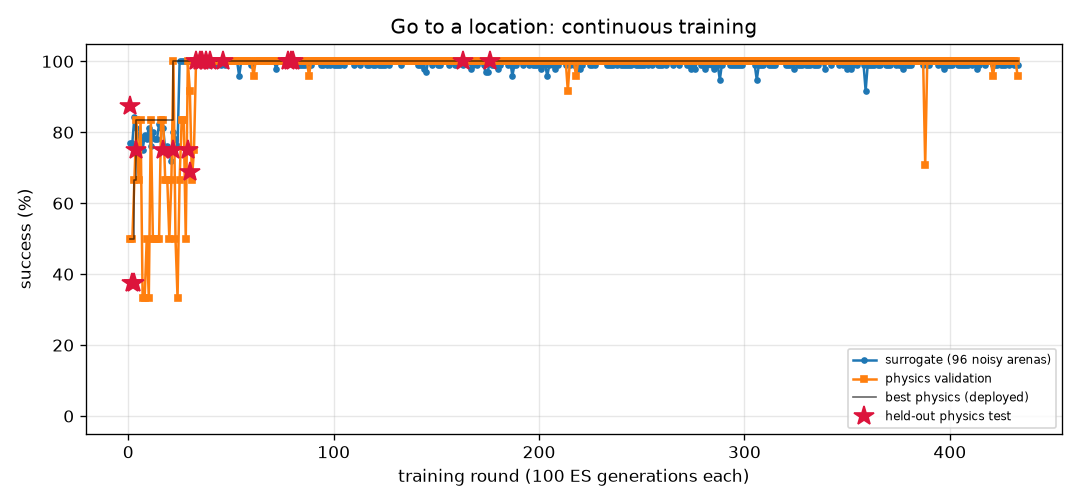
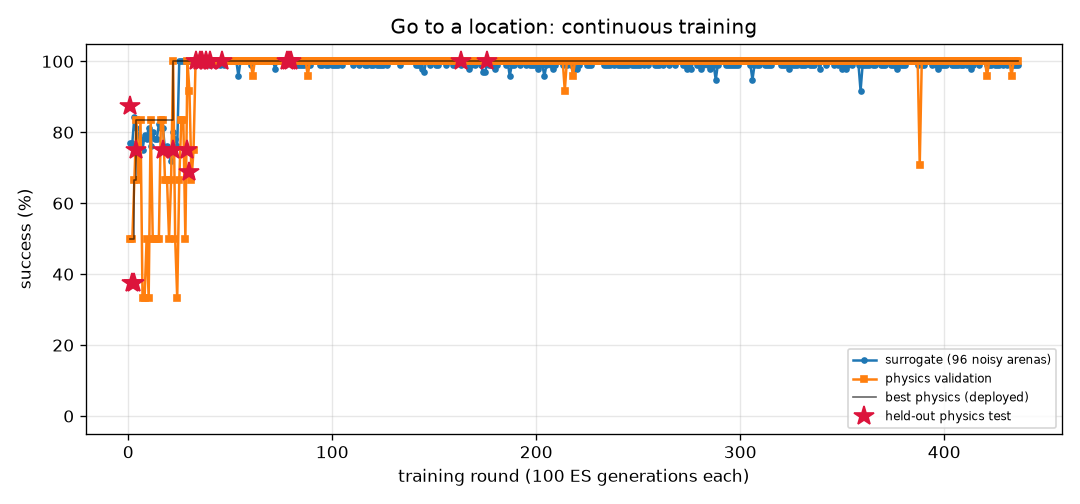
FlyLab: continuous training progress
- walk_forward: optimal, physics val 100% of 24, round 566
- turn: optimal, physics val 100% of 24, round 1405
- goto: optimal, physics val 100% of 24, round 436
- odor_seek: optimal, physics val 100% of 24, round 349
- odor_avoid: optimal, physics val 100% of 24, round 1176
- light_seek: optimal, physics val 100% of 24, round 640
- light_avoid: optimal, physics val 100% of 24, round 890

diff --git a/projects/09_flylab/training/goto/REPORT.md b/projects/09_flylab/training/goto/REPORT.md
@@ -1,14 +1,14 @@
 # Go to a location (`goto`) — training report
 
-*Auto-generated by `train_brains.py`, last updated 2026-11-27T12:01:27.*
+*Auto-generated by `train_brains.py`, last updated 2026-11-27T12:53:22.*
 
 ![curve](curve.png)
 
 | | |
 |---|---|
-| rounds | 433 |
-| ES generations | 43300 |
-| physics runs | 10342 |
+| rounds | 436 |
+| ES generations | 43600 |
+| physics runs | 10414 |
 | status | **optimal** |
 | best brain | round 176: physics validation **100%** on 24 arenas, surrogate 100% |
 | held-out physics test | **100%** on 32 unseen arenas (95% CI 89%-100%) (errors: [0.2, 0.32, 0.19, 0.24, 0.18, 0.2, 0.19, 0.17, 0.22, 0.23, 0.23, 0.26, 0.2, 0.19, 0.24, 0.23, 0.22, 0.24, 0.2, 0.22, 0.2, 0.2, 0.26, 0.19, 0.22, 0.18, 0.26, 0.22, 0.2, 0.26, 0.23, 0.23]) |
@@ -17,9 +17,6 @@ Physics error per arena: mm from target at the end (< 1.5 and standing still = s
 
 | round | level | gens | sigma | surrogate | physics val | val errors | test | note |
 |---:|---:|---:|---:|---:|---:|---|---:|---|
-| 394 | 3 | 39400 | 0.024 | 99% | 100% | [0.63, 0.57, 0.47, 0.61, 0.46, 0.57, 0.57, 0.64, 0.65, 0.46, 0.52, 0.59, 0.67, 0.49, 0.5, 0.54, 0.62, 0.59, 0.46, 0.65, 0.5, 0.5, 0.63, 0.62] |  |  |
-| 395 | 3 | 39500 | 0.025 | 100% | 100% | [0.56, 0.58, 0.44, 0.49, 0.43, 0.49, 0.54, 0.56, 0.54, 0.42, 0.42, 0.46, 0.57, 0.47, 0.5, 0.49, 0.59, 0.49, 0.42, 0.53, 0.48, 0.41, 0.57, 0.53] |  |  |
-| 396 | 3 | 39600 | 0.024 | 99% | 100% | [0.45, 0.4, 0.41, 0.37, 0.3, 0.34, 0.4, 0.38, 0.43, 0.32, 0.33, 0.37, 0.42, 0.31, 0.36, 0.35, 0.44, 0.34, 0.3, 0.41, 0.33, 0.34, 0.43, 0.35] |  | restart from best |
 | 397 | 3 | 39700 | 0.024 | 98% | 100% | [0.25, 0.25, 0.2, 0.24, 0.18, 0.23, 0.23, 0.26, 0.28, 0.16, 0.19, 0.22, 0.26, 0.2, 0.14, 0.21, 0.26, 0.25, 0.17, 0.25, 0.2, 0.18, 0.26, 0.25] |  |  |
 | 398 | 3 | 39800 | 0.025 | 99% | 100% | [0.4, 0.35, 0.39, 0.35, 0.27, 0.3, 0.39, 0.36, 0.38, 0.29, 0.29, 0.33, 0.41, 0.3, 0.36, 0.36, 0.44, 0.3, 0.28, 0.4, 0.3, 0.32, 0.41, 0.32] |  |  |
 | 399 | 3 | 39900 | 0.025 | 99% | 100% | [0.43, 0.44, 0.46, 0.45, 0.32, 0.42, 0.39, 0.47, 0.47, 0.35, 0.4, 0.43, 0.45, 0.37, 0.31, 0.37, 0.45, 0.42, 0.33, 0.44, 0.35, 0.36, 0.46, 0.46] |  |  |
@@ -57,3 +54,6 @@ Physics error per arena: mm from target at the end (< 1.5 and standing still = s
 | 431 | 3 | 43100 | 0.024 | 99% | 100% | [0.7, 0.62, 0.48, 0.53, 0.48, 0.5, 0.6, 0.55, 0.55, 0.5, 0.48, 0.53, 0.59, 0.49, 0.57, 0.57, 0.69, 0.62, 0.48, 0.58, 0.54, 0.5, 0.67, 0.51] |  |  |
 | 432 | 3 | 43200 | 0.025 | 100% | 100% | [0.56, 0.52, 0.52, 0.42, 0.4, 0.4, 0.55, 0.43, 0.48, 0.41, 0.4, 0.41, 0.49, 0.41, 0.45, 0.45, 0.54, 0.41, 0.39, 0.47, 0.43, 0.41, 0.52, 0.4] |  | restart from best |
 | 433 | 3 | 43300 | 0.024 | 99% | 96% | [0.46, 0.43, 0.35, 0.41, 0.34, 0.37, 0.45, 0.42, 0.43, 0.37, 0.36, 0.4, 0.46, 2.4, 0.42, 0.23, 0.49, 0.37, 0.35, 0.48, 0.11, 0.37, 0.47, 0.4] |  |  |
+| 434 | 3 | 43400 | 0.025 | 99% | 100% | [0.65, 0.53, 0.61, 0.59, 0.42, 0.52, 0.58, 0.59, 0.62, 0.44, 0.46, 0.55, 0.64, 0.42, 0.47, 0.45, 0.62, 0.52, 0.42, 0.62, 0.44, 0.5, 0.6, 0.57] |  |  |
+| 435 | 3 | 43500 | 0.025 | 99% | 100% | [0.56, 0.46, 0.5, 0.49, 0.37, 0.44, 0.52, 0.48, 0.52, 0.41, 0.41, 0.47, 0.53, 0.39, 0.46, 0.42, 0.52, 0.43, 0.39, 0.55, 0.4, 0.46, 0.51, 0.49] |  |  |
+| 436 | 3 | 43600 | 0.025 | 99% | 100% | [0.47, 0.49, 0.4, 0.45, 0.37, 0.45, 0.43, 0.49, 0.51, 0.36, 0.38, 0.43, 0.5, 0.43, 0.38, 0.41, 0.47, 0.43, 0.35, 0.45, 0.41, 0.36, 0.51, 0.47] |  | restart from best |

diff --git a/projects/09_flylab/training/walk_forward/REPORT.md b/projects/09_flylab/training/walk_forward/REPORT.md
@@ -1,14 +1,14 @@
 # Walk forward (`walk_forward`) — training report
 
-*Auto-generated by `train_brains.py`, last updated 2026-11-26T23:48:03.*
+*Auto-generated by `train_brains.py`, last updated 2026-11-27T12:47:14.*
 
 ![curve](curve.png)
 
 | | |
 |---|---|
-| rounds | 564 |
-| ES generations | 56400 |
-| physics runs | 13614 |
+| rounds | 566 |
+| ES generations | 56600 |
+| physics runs | 13662 |
 | status | **optimal** |
 | best brain | round 485: physics validation **100%** on 24 arenas, surrogate 100% |
 | held-out physics test | **100%** on 32 unseen arenas (95% CI 89%-100%) (errors: [0.14, 0.13, 0.15, 0.21, 0.14, 0.12, 0.13, 0.18, 0.2, 0.15, 0.13, 0.14, 0.2, 0.15, 0.12, 0.12, 0.14, 0.14, 0.13, 0.13, 0.14, 0.21, 0.14, 0.13, 0.14, 0.14, 0.18, 0.14, 0.14, 0.14, 0.17, 0.15]) |
@@ -17,8 +17,6 @@ Physics error per arena: mm from target at the end (< 1.5 and standing still = s
 
 | round | level | gens | sigma | surrogate | physics val | val errors | test | note |
 |---:|---:|---:|---:|---:|---:|---|---:|---|
-| 525 | 3 | 52500 | 0.025 | 99% | 100% | [0.13, 0.2, 0.15, 0.12, 0.2, 0.15, 0.2, 0.12, 0.2, 0.23, 0.16, 0.24, 0.12, 0.16, 0.14, 0.25, 0.12, 0.18, 0.12, 0.16, 0.11, 0.24, 0.24, 0.12] |  | restart from best |
-| 526 | 3 | 52600 | 0.024 | 100% | 92% | [0.11, 0.11, 0.03, 0.11, 0.11, 0.08, 0.11, 0.05, 0.11, 0.05, 0.07, 0.21, 0.1, 0.07, 0.09, 0.19, 0.12, 0.11, 0.4, 0.09, 0.68, 0.18, 0.22, 0.11] |  |  |
 | 527 | 3 | 52700 | 0.024 | 100% | 96% | [0.08, 0.06, 0.09, 0.13, 0.02, 0.09, 0.05, 0.1, 0.06, 0.06, 0.08, 0.19, 0.1, 0.07, 0.07, 0.13, 0.12, 0.08, 0.07, 0.07, 0.1, 0.18, 0.12, 0.11] |  |  |
 | 528 | 3 | 52800 | 0.024 | 100% | 100% | [0.16, 0.17, 0.08, 0.15, 0.2, 0.07, 0.23, 0.08, 0.19, 0.3, 0.07, 0.25, 0.15, 0.08, 0.14, 0.31, 0.15, 0.14, 0.15, 0.13, 0.15, 0.3, 0.24, 0.14] |  |  |
 | 529 | 3 | 52900 | 0.024 | 100% | 100% | [0.15, 0.15, 0.16, 0.15, 0.15, 0.16, 0.16, 0.16, 0.15, 0.18, 0.15, 0.2, 0.16, 0.15, 0.15, 0.2, 0.15, 0.15, 0.16, 0.14, 0.15, 0.19, 0.21, 0.16] |  | restart from best |
@@ -57,3 +55,5 @@ Physics error per arena: mm from target at the end (< 1.5 and standing still = s
 | 562 | 3 | 56200 | 0.024 | 100% | 100% | [0.43, 0.46, 0.36, 0.43, 0.46, 0.35, 0.47, 0.38, 0.46, 0.45, 0.36, 0.44, 0.38, 0.35, 0.45, 0.45, 0.41, 0.46, 0.38, 0.44, 0.39, 0.46, 0.43, 0.38] |  |  |
 | 563 | 3 | 56300 | 0.024 | 99% | 100% | [0.15, 0.15, 0.15, 0.16, 0.15, 0.15, 0.15, 0.16, 0.15, 0.19, 0.15, 0.22, 0.16, 0.15, 0.15, 0.21, 0.16, 0.14, 0.16, 0.15, 0.16, 0.2, 0.23, 0.16] |  |  |
 | 564 | 3 | 56400 | 0.025 | 100% | 100% | [0.25, 0.27, 0.28, 0.25, 0.28, 0.27, 0.29, 0.28, 0.27, 0.38, 0.27, 0.4, 0.27, 0.27, 0.24, 0.39, 0.26, 0.25, 0.27, 0.24, 0.26, 0.39, 0.41, 0.28] |  |  |
+| 565 | 3 | 56500 | 0.024 | 99% | 100% | [0.21, 0.26, 0.21, 0.21, 0.26, 0.2, 0.27, 0.2, 0.26, 0.28, 0.2, 0.28, 0.2, 0.2, 0.22, 0.27, 0.2, 0.25, 0.21, 0.23, 0.2, 0.28, 0.26, 0.2] |  | restart from best |
+| 566 | 3 | 56600 | 0.024 | 100% | 88% | [0.06, 0.07, 0.01, 0.05, 0.07, 0.03, 0.07, 0.59, 0.07, 0.21, 0.06, 0.22, 0.09, 0.03, 0.06, 0.22, 2.61, 0.24, 0.15, 0.07, 0.09, 0.21, 0.12, 0.09] |  |  |

diff --git a/projects/09_flylab/training/light_seek/REPORT.md b/projects/09_flylab/training/light_seek/REPORT.md
@@ -1,14 +1,14 @@
 # Walk toward light (`light_seek`) — training report
 
-*Auto-generated by `train_brains.py`, last updated 2026-11-27T12:03:13.*
+*Auto-generated by `train_brains.py`, last updated 2026-11-27T12:21:35.*
 
 ![curve](curve.png)
 
 | | |
 |---|---|
-| rounds | 639 |
-| ES generations | 63900 |
-| physics runs | 12216 |
+| rounds | 640 |
+| ES generations | 64000 |
+| physics runs | 12240 |
 | status | **optimal** |
 | best brain | round 375: physics validation **100%** on 24 arenas, surrogate 100% |
 | held-out physics test | **100%** on 32 unseen arenas (95% CI 89%-100%) (errors: [0.57, 0.54, 0.53, 0.57, 0.55, 0.56, 0.59, 0.56, 0.53, 0.56, 0.71, 0.56, 0.55, 0.54, 0.53, 0.54, 0.54, 0.55, 0.52, 0.65, 0.64, 0.7, 0.58, 0.57, 0.6, 0.62, 0.55, 0.88, 0.54, 0.52, 0.62, 0.57]) |
@@ -17,7 +17,6 @@ Physics error per arena: mm from target at the end (< 1.5 and standing still = s
 
 | round | level | gens | sigma | surrogate | physics val | val errors | test | note |
 |---:|---:|---:|---:|---:|---:|---|---:|---|
-| 600 | 3 | 60000 | 0.024 | 100% | 96% | [0.57, 0.71, 0.53, 0.62, 0.53, 0.53, 1.18, 0.69, 0.61, 0.64, 0.56, 0.57, 0.62, 0.56, 2.4, 0.61, 0.56, 0.57, 0.54, 0.61, 1.36, 0.79, 0.54, 0.58] |  |  |
 | 601 | 3 | 60100 | 0.024 | 100% | 100% | [0.68, 0.61, 0.54, 0.63, 0.62, 0.52, 0.65, 0.54, 0.58, 0.61, 0.55, 0.56, 0.55, 0.71, 0.64, 0.69, 0.65, 0.54, 0.55, 0.56, 1.15, 0.68, 0.63, 0.9] |  |  |
 | 602 | 3 | 60200 | 0.024 | 100% | 96% | [0.58, 0.54, 0.58, 0.62, 0.55, 0.55, 0.53, 0.65, 0.69, 0.54, 0.6, 0.61, 0.55, 2.64, 0.62, 0.54, 0.59, 0.56, 0.52, 0.59, 0.53, 0.62, 0.57, 0.54] |  |  |
 | 603 | 3 | 60300 | 0.024 | 100% | 100% | [1.14, 0.5, 0.5, 0.52, 0.45, 0.47, 0.47, 0.49, 0.46, 0.52, 0.89, 0.51, 0.56, 0.51, 0.5, 0.65, 0.46, 0.57, 0.47, 0.51, 0.51, 0.49, 0.49, 0.62] |  | restart from best |
@@ -57,3 +56,4 @@ Physics error per arena: mm from target at the end (< 1.5 and standing still = s
 | 637 | 3 | 63700 | 0.024 | 100% | 100% | [0.54, 0.56, 0.5, 0.47, 0.48, 0.56, 0.5, 0.53, 0.64, 0.64, 0.57, 1.27, 0.59, 0.57, 0.57, 0.61, 0.54, 0.61, 0.61, 0.47, 0.47, 0.71, 0.64, 0.54] |  |  |
 | 638 | 3 | 63800 | 0.024 | 100% | 100% | [0.55, 0.48, 0.5, 0.51, 0.45, 0.51, 0.43, 0.44, 0.55, 0.58, 0.47, 0.54, 0.46, 0.66, 0.54, 0.49, 0.43, 0.51, 0.65, 0.92, 0.53, 0.49, 0.44, 0.68] |  |  |
 | 639 | 3 | 63900 | 0.024 | 100% | 100% | [0.48, 0.52, 0.56, 0.45, 0.59, 0.5, 0.47, 0.45, 0.51, 0.45, 0.5, 0.54, 0.47, 0.44, 0.48, 0.51, 0.48, 0.5, 0.48, 0.45, 0.44, 0.6, 0.44, 0.56] |  | restart from best |
+| 640 | 3 | 64000 | 0.024 | 100% | 100% | [1.28, 0.62, 0.57, 0.54, 0.58, 0.53, 0.57, 0.71, 0.6, 0.54, 0.59, 0.61, 0.59, 0.69, 0.57, 0.53, 0.57, 0.54, 0.54, 0.67, 1.18, 0.58, 1.14, 1.01] |  |  |

diff --git a/projects/09_flylab/training/TRAINING.md b/projects/09_flylab/training/TRAINING.md
@@ -1,15 +1,15 @@
 # FlyLab brains — continuous training log
 
-*Auto-generated by `train_brains.py`, last updated 2026-11-27T12:03:13.*
+*Auto-generated by `train_brains.py`, last updated 2026-11-27T12:53:22.*
 
 Every skill has its own brain and its own training process: surrogate ES rounds, physics validation in MuJoCo, keep-the-best selection, and a held-out physics test that is never used for selection. See each skill's report for its full round-by-round history. Mastery is progressive: passing a level (100% physics validation, >=95% surrogate) doubles the validation and test arena sets; a brain is **optimal** once it holds up at level 3 (>=95% of 24 validation arenas) AND scores >=90% on the 32 held-out test arenas. Test columns show 95% Wilson confidence intervals.
 
 | skill | rounds | ES generations | physics runs | surrogate | physics val | **physics test** | status |
 |---|---:|---:|---:|---:|---:|---:|---|
-| [Walk forward](walk_forward/REPORT.md) | 564 | 56400 | 13614 | 100% | 100% of 24 | 100% of 32 (CI 89-100%) | **optimal** |
+| [Walk forward](walk_forward/REPORT.md) | 566 | 56600 | 13662 | 100% | 100% of 24 | 100% of 32 (CI 89-100%) | **optimal** |
 | [Turn in place](turn/REPORT.md) | 1405 | 140500 | 33966 | 100% | 100% of 24 | 97% of 32 (CI 84-99%) | **optimal** |
-| [Go to a location](goto/REPORT.md) | 433 | 43300 | 10342 | 100% | 100% of 24 | 100% of 32 (CI 89-100%) | **optimal** |
+| [Go to a location](goto/REPORT.md) | 436 | 43600 | 10414 | 100% | 100% of 24 | 100% of 32 (CI 89-100%) | **optimal** |
 | [Find food by smell](odor_seek/REPORT.md) | 349 | 34900 | 7870 | 100% | 100% of 24 | 100% of 32 (CI 89-100%) | **optimal** |
 | [Escape a bad smell](odor_avoid/REPORT.md) | 1176 | 117600 | 25530 | 97% | 100% of 24 | 97% of 32 (CI 84-99%) | **optimal** |
-| [Walk toward light](light_seek/REPORT.md) | 639 | 63900 | 12216 | 100% | 100% of 24 | 100% of 32 (CI 89-100%) | **optimal** |
+| [Walk toward light](light_seek/REPORT.md) | 640 | 64000 | 12240 | 100% | 100% of 24 | 100% of 32 (CI 89-100%) | **optimal** |
 | [Hide from light](light_avoid/REPORT.md) | 890 | 89000 | 21632 | 100% | 100% of 24 | 100% of 32 (CI 89-100%) | **optimal** |
